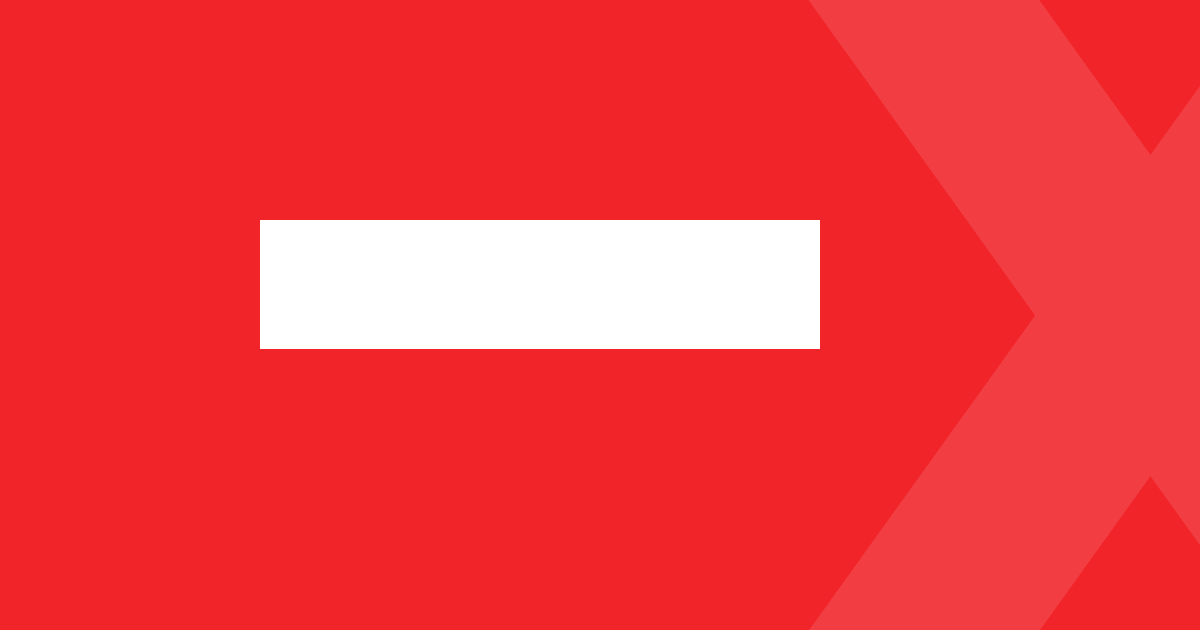
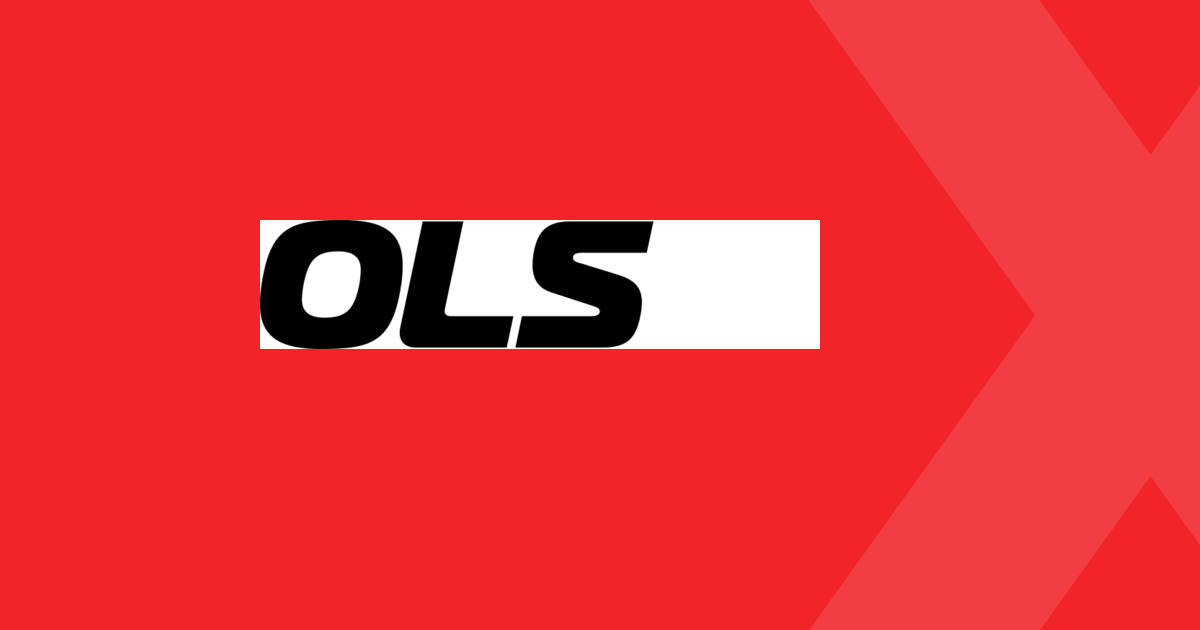
Passe de design sur la page: rythme unifie, etats d'interaction, logotype bicolore

Changed region(s): [[0.2158, 0.3317, 0.555, 0.573]]

diff --git a/docs/index.html b/docs/index.html
@@ -16,113 +16,128 @@
 <style>
 :root{
   --rouge:#F02429;
-  --rouge-fonce:#B31419;
   --noir:#000000;
   --encre:#3D444D;
   --acier:#EDEEF0;
   --blanc:#FFFFFF;
-  --marge:clamp(1.5rem,5vw,5rem);
+  --marge:clamp(1.5rem,5vw,4rem);
+  --section:clamp(3rem,6vw,5rem);
+  --gouttiere:clamp(1.5rem,3vw,2.5rem);
 }
 *{box-sizing:border-box;margin:0;padding:0}
 html{-webkit-text-size-adjust:100%}
 body{
   font-family:'Archivo',system-ui,-apple-system,'Segoe UI',sans-serif;
-  font-variation-settings:'wdth' 100,'wght' 400;
+  font-variation-settings:'wdth' 100;
   color:var(--encre);background:var(--blanc);
-  font-size:clamp(1rem,.95rem + .2vw,1.0625rem);line-height:1.65;
+  font-size:1rem;line-height:1.6;
   -webkit-font-smoothing:antialiased;
 }
-a{color:inherit}
-:focus-visible{outline:3px solid var(--noir);outline-offset:3px}
+a{color:inherit;text-underline-offset:.22em;text-decoration-thickness:1px}
+a:hover{text-decoration-thickness:2px}
+a:active{text-decoration-thickness:3px}
+:focus-visible{outline:3px solid var(--noir);outline-offset:4px}
 .enveloppe{max-width:1180px;margin:0 auto;padding-inline:var(--marge)}
 
-/* ---------- Hero ---------- */
+/* ---------- Bandeau ---------- */
 .hero{position:relative;background:var(--rouge);color:var(--blanc);overflow:hidden}
 .hero__x{
   position:absolute;top:50%;right:-6%;translate:0 -50%;
   width:min(58vw,720px);aspect-ratio:1;opacity:.11;pointer-events:none;
 }
 .hero__x polygon{fill:var(--blanc)}
-.hero__contenu{position:relative;padding-block:clamp(3rem,9vw,7rem) clamp(3.5rem,9vw,6.5rem)}
-.marque{display:block;width:clamp(112px,13vw,164px);height:auto;margin-bottom:clamp(2.5rem,7vw,4.5rem)}
-.marque path,.marque polygon{fill:var(--blanc)}
+.hero__contenu{position:relative;padding-block:var(--section)}
+.marque{display:block;width:clamp(112px,13vw,152px);height:auto;margin-bottom:clamp(2rem,4vw,3rem)}
+.marque path{fill:var(--noir)}
+.marque polygon{fill:var(--blanc)}
 h1{
-  font-variation-settings:'wdth' 125,'wght' 850;
-  font-size:clamp(2.9rem,9.5vw,6.4rem);line-height:.9;letter-spacing:-.025em;
-  text-transform:uppercase;max-width:11ch;
+  font-variation-settings:'wdth' 125;font-weight:850;
+  font-size:clamp(2.125rem,6.1vw,5rem);line-height:1;letter-spacing:-.025em;
+  text-transform:uppercase;max-width:15ch;text-wrap:balance;
 }
-.chapeau{margin-top:clamp(1.25rem,3vw,1.75rem);max-width:44ch;font-size:clamp(1.0625rem,1rem + .4vw,1.3rem);line-height:1.5}
+.chapeau{margin-top:1.5rem;max-width:50ch;font-size:clamp(1.0625rem,1rem + .25vw,1.25rem);line-height:1.5;color:var(--noir)}
 
 /* ---------- Téléchargement ---------- */
-.telechargement{margin-top:clamp(2.25rem,5vw,3.25rem)}
+.telechargement{margin-top:2rem;color:var(--noir)}
 .boutons{display:flex;flex-wrap:wrap;gap:.75rem}
 .bouton{
-  display:inline-flex;align-items:center;gap:.7rem;
+  display:inline-flex;align-items:center;justify-content:center;gap:.75rem;
+  max-width:100%;min-height:3.5rem;
   background:var(--blanc);color:var(--noir);
-  font-variation-settings:'wdth' 112,'wght' 750;font-size:1.0625rem;
-  padding:1.05rem 1.6rem;text-decoration:none;border:2px solid var(--blanc);
-  transition:background .12s linear,color .12s linear;
+  font-variation-settings:'wdth' 112;font-weight:750;font-size:1rem;line-height:1.4;
+  padding:1rem 1.5rem;text-decoration:none;border:2px solid var(--blanc);
 }
 .bouton:hover,.bouton:focus-visible{background:var(--noir);color:var(--blanc);border-color:var(--noir)}
-.bouton svg{width:1.15em;height:1.15em;flex:none}
-.bouton--fantome{background:transparent;color:var(--blanc)}
-.bouton--fantome:hover,.bouton--fantome:focus-visible{background:var(--blanc);color:var(--noir);border-color:var(--blanc)}
-.appoint{margin-top:1.1rem;font-size:.9375rem;line-height:1.5;opacity:.92}
-.appoint a{text-underline-offset:.22em}
+.bouton:active{background:var(--encre);color:var(--blanc);border-color:var(--encre)}
+.bouton svg{width:1.25rem;height:1.25rem;flex:none}
+.bouton--fantome{background:transparent;color:var(--noir);border-color:var(--noir)}
+.appoint{margin-top:1rem;max-width:64ch;font-size:.9375rem;line-height:1.6}
 
-.tous{margin-top:1.75rem;font-size:.9688rem}
-.tous summary{cursor:pointer;font-variation-settings:'wght' 650;padding-block:.35rem;color:var(--blanc)}
-.tous summary::marker{color:var(--blanc)}
-.tous table{width:100%;border-collapse:collapse;margin-top:.9rem;max-width:640px}
-.tous th,.tous td{text-align:left;padding:.6rem .9rem .6rem 0;border-bottom:1px solid rgba(255,255,255,.28);vertical-align:top}
-.tous th{font-variation-settings:'wght' 650;white-space:nowrap}
-.tous td a{margin-right:1rem;white-space:nowrap}
+.tous{margin-top:1rem;font-size:.9375rem;max-width:640px}
+.tous summary{cursor:pointer;font-weight:650;min-height:2.75rem;padding-block:.625rem;width:fit-content}
+.tous summary:hover,.tous summary:focus-visible{text-decoration:underline;text-underline-offset:.22em}
+.tous summary:active{text-decoration-thickness:3px}
+.tous[open] summary{margin-bottom:.5rem}
+.tous table{width:100%;border-collapse:collapse}
+.tous th,.tous td{text-align:left;padding:.75rem 1rem .75rem 0;border-bottom:1px solid var(--noir);vertical-align:top}
+.tous th{font-weight:650;width:35%}
+.tous td{padding-right:0}
+.tous td a{display:inline-block;padding-block:.25rem;margin-right:1rem;white-space:nowrap}
 
-/* ---------- Etapes ---------- */
+/* ---------- Étapes ---------- */
 .etapes{background:var(--noir);color:var(--blanc)}
-.etapes ol{list-style:none;display:grid;grid-template-columns:repeat(3,1fr)}
-.etapes li{padding:clamp(2.25rem,4.5vw,3.25rem) clamp(1.4rem,3vw,2.6rem);border-left:1px solid #2B2B2B}
+.etapes ol{list-style:none;display:grid;grid-template-columns:repeat(3,minmax(0,1fr));row-gap:.75rem;padding-block:2.5rem}
+.etapes li{display:grid;grid-template-rows:subgrid;grid-row:span 3;align-content:start;padding-inline:var(--gouttiere);border-left:1px solid var(--encre)}
 .etapes li:first-child{border-left:0;padding-left:0}
+.etapes li:last-child{padding-right:0}
 .etapes .rang{
-  display:block;font-variation-settings:'wdth' 125,'wght' 900;
-  font-size:2.6rem;line-height:1;color:var(--rouge);margin-bottom:.85rem;
+  display:block;font-variation-settings:'wdth' 125;font-weight:900;
+  font-size:2.5rem;line-height:1;color:var(--rouge);margin-bottom:.25rem;
 }
-.etapes h2{font-variation-settings:'wdth' 112,'wght' 750;font-size:1.2rem;line-height:1.3;margin-bottom:.5rem;min-height:2.6em}
-.etapes p{font-size:.9688rem;line-height:1.6;color:#B9BEC4}
+.etapes h2{font-variation-settings:'wdth' 112;font-weight:750;font-size:1.125rem;line-height:1.4}
+.etapes p{font-size:.9375rem;line-height:1.6;color:var(--acier);align-self:start}
 
 /* ---------- Sections claires ---------- */
-.bloc{padding-block:clamp(3.25rem,7vw,5.5rem)}
+.bloc{padding-block:var(--section)}
 .bloc--acier{background:var(--acier)}
-.titre{font-variation-settings:'wdth' 118,'wght' 800;font-size:clamp(1.7rem,1.3rem + 1.6vw,2.4rem);line-height:1.05;letter-spacing:-.015em;color:var(--noir);text-transform:uppercase;max-width:24ch}
-.sous-titre{margin-top:.8rem;max-width:52ch}
+.titre{font-variation-settings:'wdth' 118;font-weight:800;font-size:clamp(1.75rem,1.125rem + 2vw,2.5rem);line-height:1.1;letter-spacing:-.015em;color:var(--noir);text-transform:uppercase;max-width:25ch;text-wrap:balance}
+.sous-titre{margin-top:1.25rem;max-width:64ch}
 
-.duo{display:grid;grid-template-columns:1fr 1fr;gap:clamp(1.75rem,4vw,3.5rem);margin-top:clamp(2rem,4vw,3rem)}
-.fiche h3{font-variation-settings:'wdth' 112,'wght' 750;font-size:1.15rem;color:var(--noir);padding-top:.9rem;border-top:4px solid var(--rouge)}
-.fiche p{margin-top:.85rem}
-.fiche ul{margin-top:.85rem;padding-left:1.1rem}
-.fiche li{margin-top:.4rem}
-.fiche b{font-variation-settings:'wght' 700;color:var(--noir)}
+.duo{display:grid;grid-template-columns:repeat(2,minmax(0,1fr));gap:var(--gouttiere);margin-top:2rem}
+.fiche h3{font-variation-settings:'wdth' 112;font-weight:750;font-size:1.25rem;line-height:1.4;color:var(--noir);padding-top:1rem;border-top:4px solid var(--rouge)}
+.fiche p{margin-top:1rem}
+.fiche ul{margin-top:1rem;padding-left:1.25rem}
+.fiche li+li{margin-top:.5rem}
+.fiche b{font-weight:700;color:var(--noir)}
 
-.points{margin-top:clamp(1.75rem,4vw,2.5rem);display:grid;gap:1.6rem;max-width:66ch}
-.points p{padding-left:1.4rem;border-left:4px solid var(--rouge)}
+.points{margin-top:2rem;display:grid;gap:1.5rem;max-width:66ch}
+.points p{padding-left:1.25rem;border-left:4px solid var(--rouge)}
 
 /* ---------- Pied ---------- */
-footer{background:var(--noir);color:#8C939B;padding-block:2.75rem;font-size:.875rem}
-footer .enveloppe{display:flex;flex-wrap:wrap;gap:.6rem 2rem;justify-content:space-between}
-footer a{color:#D5D9DD;text-underline-offset:.2em}
+footer{background:var(--noir);color:var(--acier);padding-block:2rem;font-size:.875rem}
+footer .enveloppe{display:flex;flex-wrap:wrap;align-items:baseline;gap:1rem var(--gouttiere);justify-content:space-between}
+footer a{color:var(--blanc);display:inline-block;padding-block:.5rem}
+footer :focus-visible{outline-color:var(--blanc)}
 
 @media (max-width:820px){
-  .etapes ol{grid-template-columns:1fr}
-  .etapes li{border-left:0;border-top:1px solid #2B2B2B;padding-left:0;padding-right:0}
+  .etapes ol{grid-template-columns:1fr;row-gap:0;padding-block:.5rem}
+  .etapes li{grid-template-columns:2.5rem minmax(0,1fr);grid-template-rows:auto auto;grid-row:auto;column-gap:1rem;border-left:0;border-top:1px solid var(--encre);padding:1.5rem 0}
   .etapes li:first-child{border-top:0}
-  .etapes ol{padding-inline:0}
-  .duo{grid-template-columns:1fr}
-  .etapes h2{min-height:0}
-  .hero__x{right:-22%;opacity:.09}
+  .etapes .rang{grid-row:1 / 3;margin-bottom:0;font-size:2rem}
+  .etapes h2{margin-bottom:.5rem}
+  .etapes p{grid-column:2}
+  .duo{grid-template-columns:1fr;gap:2rem}
+  .hero__x{right:-22%}
+}
+@media (max-width:480px){
+  .boutons{flex-direction:column;align-items:stretch}
+  .bouton{padding-inline:1rem}
+  .tous th{width:42%}
+  .tous td a{display:block;margin-right:0;padding-block:.625rem}
+  .tous td{padding-block:.125rem}
 }
 @media (prefers-reduced-motion:no-preference){
-  .hero__x{animation:entree .9s cubic-bezier(.16,.84,.44,1) both}
-  @keyframes entree{from{opacity:0;translate:8% -50%}to{opacity:.11;translate:0 -50%}}
+  .bouton{transition:background .12s linear,color .12s linear,border-color .12s linear}
 }
 </style>
 </head>
